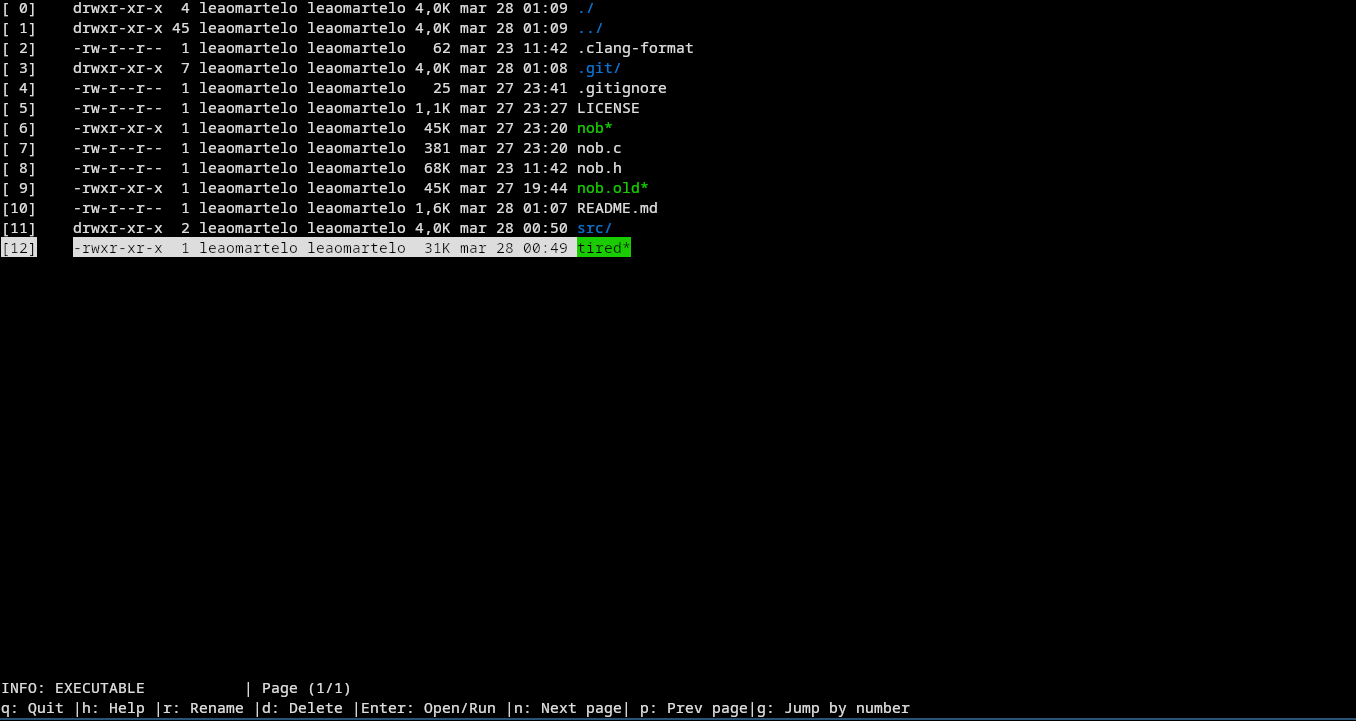
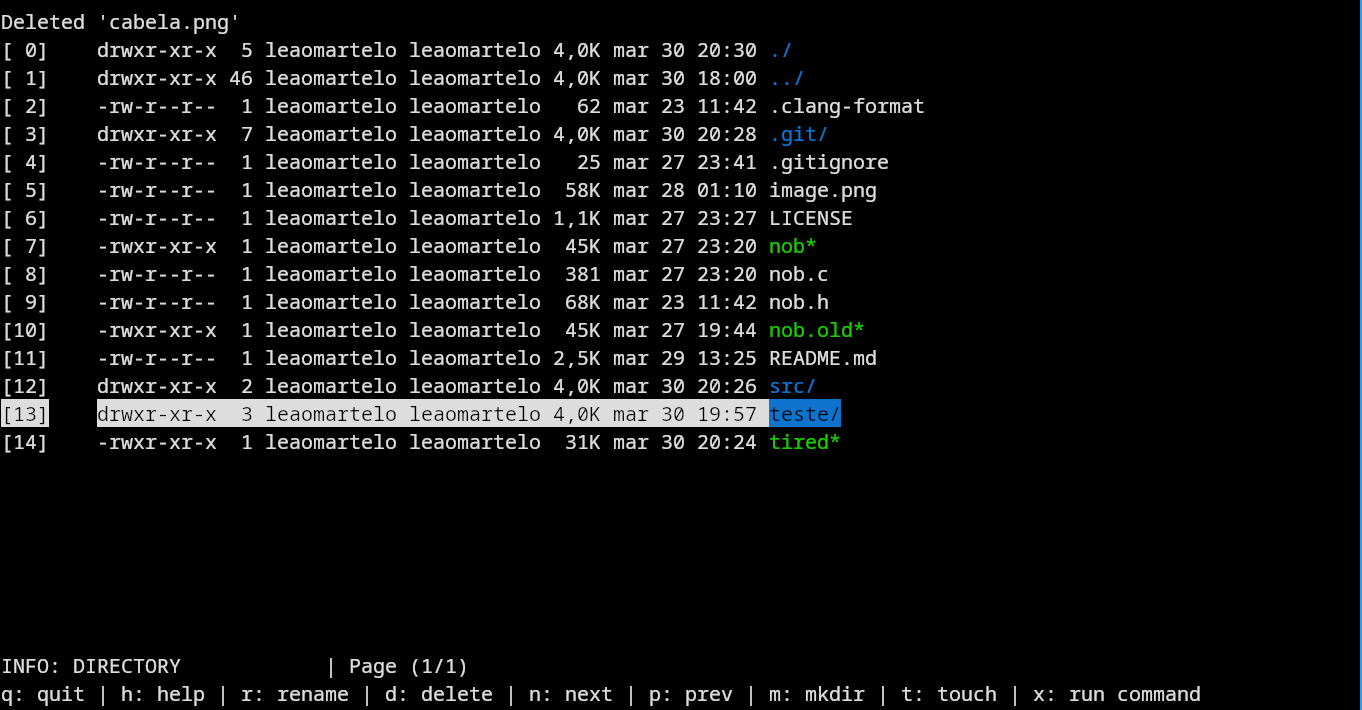
readme updat

Changed region(s): [[0.0, 0.0, 0.6814, 0.6507], [0.0, 0.0, 1.0, 1.0]]

diff --git a/README.md b/README.md
@@ -4,7 +4,7 @@
 
 Tired is a clone of the [Dired](https://wikemacs.org/wiki/Dired) file browser of Emacs, but remade as a standalone application for the terminal.
 
-Keep in mind this is made through the eyes of someone who has opened Emacs twice i think
+!! Keep in mind this is made through the eyes of someone who has barely used Emacs !!
 
 (Terminal dIRED -> Tired)
 
@@ -16,7 +16,7 @@ Keep in mind this is made through the eyes of someone who has opened Emacs twice
 <sub>(Tired being used to display the root of the project)</sub>
 
 > [!NOTE]
-> This is very buggy made with only my use case in mind.\
+> This is very buggy made with only me using it in mind\
 > Don't be afraid of making pull requests of new USEFUL functionality or fixing bugs.
 
 > [!WARNING]
@@ -45,7 +45,8 @@ cp src/config.h.def src/config.h
 
 This project uses the [nob.h](https://github.com/tsoding/nob.h) build system, be sure to check it out.
 
-The only real `requireaments` for the project are `ncurses library` and a `c compiler`.
+The only real `requireaments` for the project are [ncurses library](https://en.wikipedia.org/wiki/Ncurses) and 
+a `c compiler`.
 
 To first build the project you need to bootstrap the build system. That is made very easy with the nob.
 
@@ -67,10 +68,21 @@ Press `h` at any moment to open the help menu.
 
 Navigate arround with the `arrow keys`.
 
-Press `Enter` to open a directory / run a executable.
+Press `Enter` to go inside a directory /  open a file. \
+You can configure the command to open a specified file type at `src/config.h`.
 
 Press `Backspace` to go up a directory.
 
-Press `g` and type a number, this will switch your selection to the file with the same number at the [square brackets]
+Press `f` or `/` to open a search box, it will try to jump to the best match to your text.\
+You can also press `g` to jump by the line number.
+
+Press `x` to run a command on the current directory.
+
+Press `m` to create a directory and `t` to create a file.
+
+Press `d` to delete the current selected file.
+
+
+
 
 Too much files to fit in the screen? Press `n` and `p` to navigate between next and previous pages.
